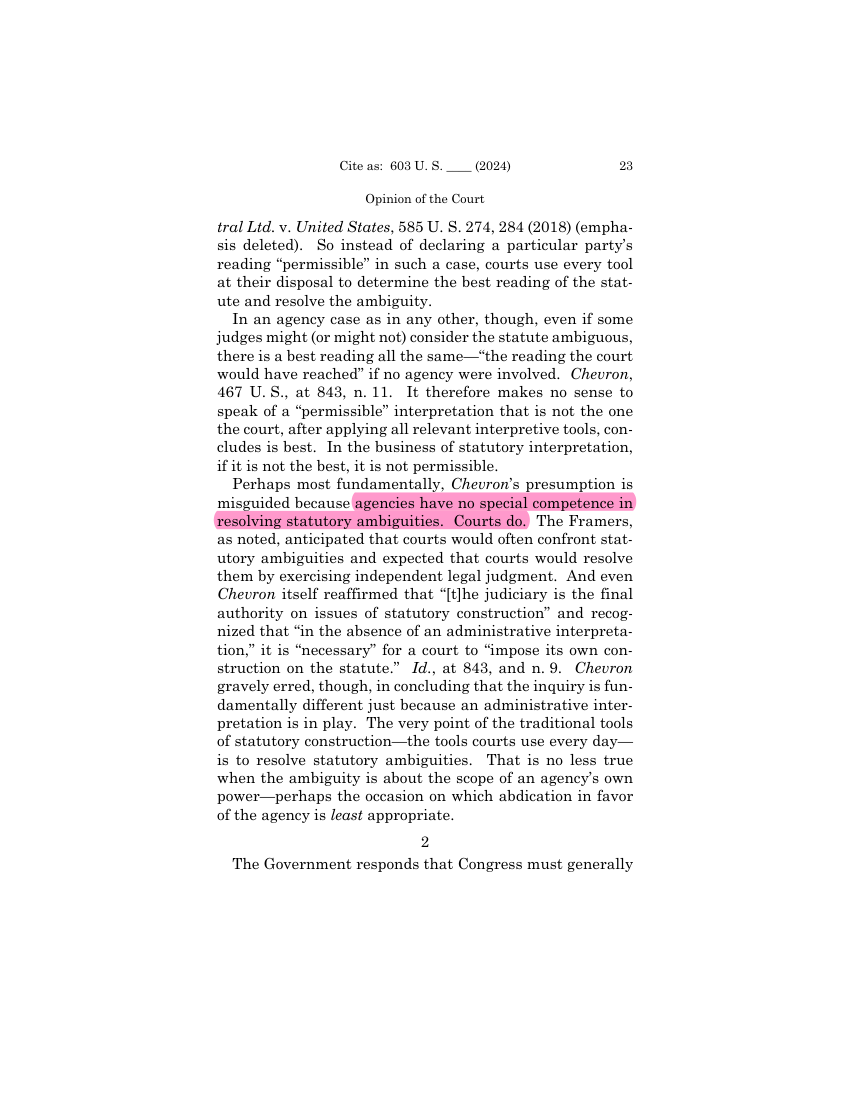
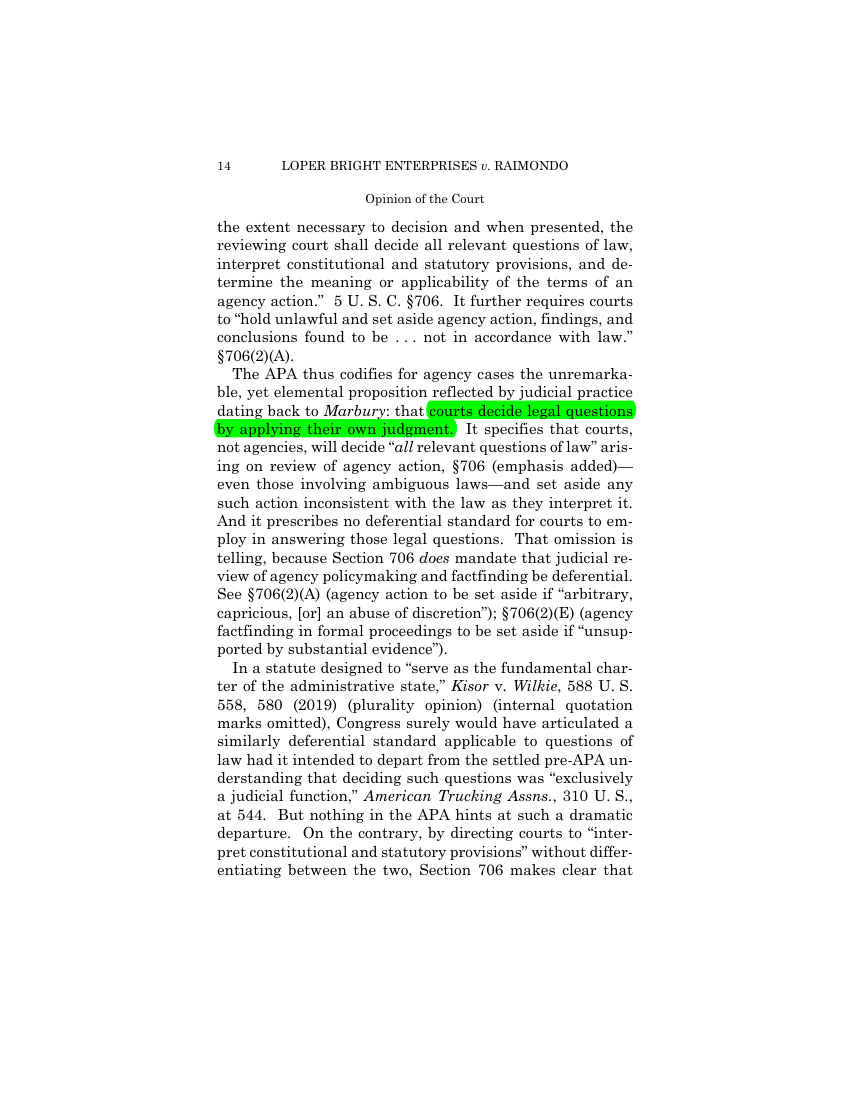
Printed page numbers for documents with several restarting sections; matching example screenshots

Changed region(s): [[0.2447, 0.1855, 0.7647, 0.8036], [0.3365, 0.1236, 0.6729, 0.1545]]

diff --git a/highlight_export/pages.py b/highlight_export/pages.py
@@ -46,9 +46,30 @@ def detect_printed(doc, furniture_text_by_page):
     if len(cands) < 3 or len(cands) < 0.5 * n:
         return out
 
-    # Printed page numbers only ever increase, and by at least as much as the PDF page position
-    # (pages can be omitted from an excerpt). Find the longest such chain, one number per page.
+    # Within one section, printed page numbers only ever increase, and by at least as much as the
+    # PDF page position (pages can be omitted from an excerpt). A court opinion or a collection can
+    # contain several such sections, each restarting its numbering, so find several runs.
     nodes = [(i, v) for i in sorted(cands) for v in sorted(cands[i])]
+    chains = []
+    while True:
+        chain = _longest_run(nodes)
+        if len(chain) < 3:
+            break
+        chains.append(chain)
+        used = {i for i, _ in chain}
+        nodes = [(i, v) for i, v in nodes if i not in used]
+    if sum(len(c) for c in chains) < 0.7 * len(cands):
+        return out
+    for chain in chains:
+        if all(v == i + 1 for i, v in chain):
+            continue  # identical to the PDF position: nothing new to say
+        for i, v in chain:
+            out[i] = (str(v), "running header/footer")
+    return out
+
+
+def _longest_run(nodes):
+    """Longest list of (page, number) with rising pages, rising numbers, and number step >= page step."""
     best, prev = {}, {}
     for k, (i, v) in enumerate(nodes):
         best[k], prev[k] = 1, None
@@ -56,15 +77,11 @@ def detect_printed(doc, furniture_text_by_page):
             pi, pv = nodes[m]
             if pi < i and v > pv and (v - pv) >= (i - pi) and best[m] + 1 > best[k]:
                 best[k], prev[k] = best[m] + 1, m
+    if not best:
+        return []
     end = max(best, key=lambda k: (best[k], -nodes[k][1]))
     chain, k = [], end
     while k is not None:
         chain.append(nodes[k])
         k = prev[k]
-    if len(chain) < 3 or len(chain) < 0.7 * len(cands):
-        return out
-    if all(v == i + 1 for i, v in chain):
-        return out  # identical to the PDF position: nothing new to say
-    for i, v in chain:
-        out[i] = (str(v), "running header/footer")
-    return out
+    return chain[::-1]

diff --git a/tests/test_extraction.py b/tests/test_extraction.py
@@ -381,3 +381,28 @@ def test_24_citation_fragment_in_its_own_block_stays_in_the_paragraph(tmp_path):
     res = extract(one_page(tmp_path, b))
     text = para_text(res.excerpts[0])
     assert "balancing. Id., at 306-307. Second" in text and len(res.excerpts[0].paras) == 1
+
+
+def test_25_printed_numbers_restart_in_each_section(tmp_path):
+    """A syllabus (1-3) followed by an opinion that restarts at 1: each section reads correctly."""
+    d = new_doc()
+    numbers = [1, 2, 3, 1, 2, 3, 4, 5, 6]
+    for i, num in enumerate(numbers):
+        p = d.new_page()
+        frame(p, header=f"Cite as: 603 U. S. (2024) {num}")
+        put(p, 72, 100, [f"{chr(97 + i) * 4} {l}" for l in PARA1])
+    hl(d[1], "written limits")   # section one: printed number equals the PDF position
+    hl(d[5], "written limits")   # section two: PDF page 6 is printed page 3
+    hl(d[8], "written limits")   # PDF page 9 is printed page 6
+    res = extract(save(d, tmp_path / "t.pdf"))
+    assert [(e.pages[0], e.printed) for e in res.excerpts] == [(2, None), (6, ("3", "3")), (9, ("6", "6"))]
+
+
+def test_26_scattered_numbers_are_not_page_numbers(tmp_path):
+    d = new_doc()
+    for i, num in enumerate([57, 3, 912, 40, 7, 1990]):
+        p = d.new_page()
+        frame(p, header=f"Some Review {num}")
+        put(p, 72, 100, [f"{chr(97 + i) * 4} {l}" for l in PARA1])
+    hl(d[2], "written limits")
+    assert extract(save(d, tmp_path / "t.pdf")).excerpts[0].printed is None

diff --git a/README.md b/README.md
@@ -17,7 +17,8 @@ A 114-page Supreme Court opinion with six highlights was exported in about **one
 
 ![A PDF page with a highlighted passage](docs/input-pdf.png)
 
-**The Word document it creates** (the highlights, their paragraphs, and their pages):
+**The Word document it creates.** The green passage above comes out in the same color, inside its
+paragraph, with its page (PDF page 22 is printed page 14, as the page header shows):
 
 ![The exported Word document](docs/output-word.png)
 
@@ -36,8 +37,9 @@ The first run sets itself up (a minute, internet needed once). After that it wor
 ## What you get
 
 - One Word file per PDF, with each highlighted passage in its paragraph, only the highlighted words
-  emphasized (Word highlight color, or bold), and the PDF page number. A printed page number is
-  added only when the PDF reliably shows one.
+  emphasized (Word highlight color, or bold), and the PDF page number. The printed page number is
+  added when the PDF reliably shows one, including documents whose numbering restarts in each
+  section.
 - Optional single combined file, and a report of anything skipped.
 - A ⚠ **Review** note wherever it is unsure, such as a highlight that cuts a word in half. It never
   guesses silently.
@@ -49,6 +51,7 @@ Options (one paragraph or the ones around it, bold, a combined file) are in `set
 
 - Needs PDFs with real highlight annotations and selectable text. Scans without a text layer are
   reported, not exported.
+- The text comes out plain: italics, fonts, and footnote markers are not carried over.
 - Paragraph boundaries are a best guess from the layout. The highlighted words themselves come
   straight from the PDF, so check important quotations against the original.
 
